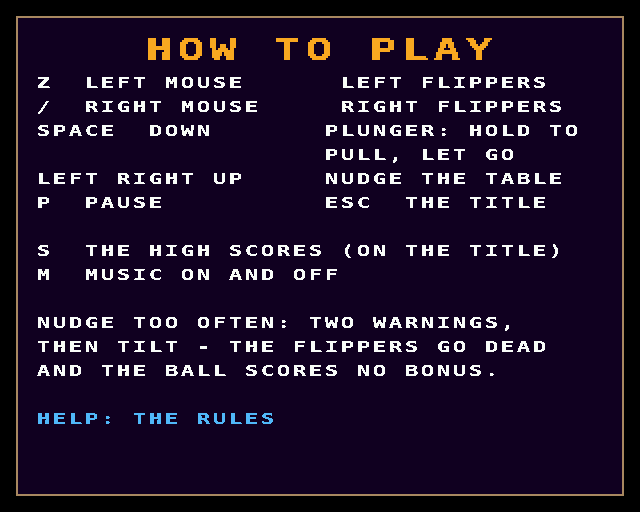
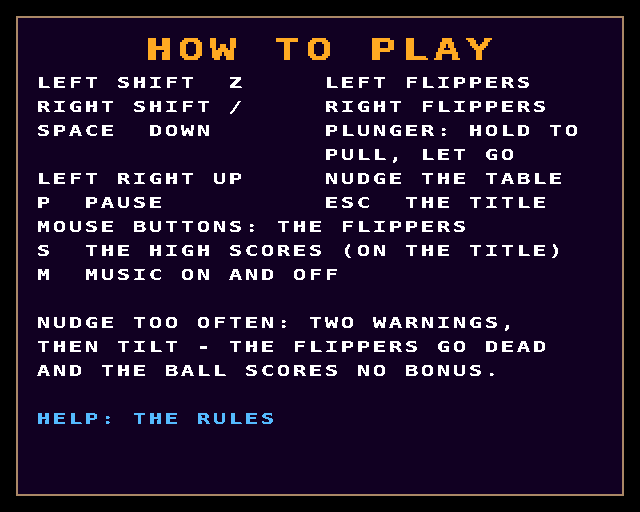
examples: Boing Pinball: help page aligned, m1b/m1c fps after MulShr (VM 88.9, JIT 77.7, native 225.5), guest tool for m1b/m1c only

diff --git a/examples/boing_pinball_bb/tools/guest.py b/examples/boing_pinball_bb/tools/guest.py
@@ -24,8 +24,8 @@ sys.path.insert(0, ROOT + "/examples/common/tools")
 import os4guest as g
 import guest_game as gg
 
-SHOTS_SSH = {"m1": "chriscollins@m1.local", "m1b": "chriscollins@m1.local"}
-HMP_PORT = {"m1": 2348, "m1b": 2448}.get(g.GUEST, 2348)
+SHOTS_SSH = {"m1b": "chriscollins@m1.local", "m1c": "chriscollins@m1.local"}
+HMP_PORT = {"m1b": 2448, "m1c": 2548}.get(g.GUEST, 2348)
 
 
 def push_project(m, bbp):

diff --git a/examples/boing_pinball_bb/README.md b/examples/boing_pinball_bb/README.md
@@ -15,7 +15,7 @@ On the AmigaOS 4 guest (QEMU sam460ex), in the interpreter:
 | ![The title: Comet Tour's backglass](screenshots/os4-title.png) | ![Comet Tour](screenshots/os4-comet.png) |
 | ![Deep Dive](screenshots/os4-deep.png) | ![Robot Foundry](screenshots/os4-foundry.png) |
 | ![Deep Dive's backglass](screenshots/os4-title_deep.png) | ![Robot Foundry's backglass](screenshots/os4-title_foundry.png) |
-| ![The controls](screenshots/os4-help1.png) | ![High scores](screenshots/os4-scores.png) |
+| ![The controls (the same pixels on the Mac)](screenshots/os4-help1.png) | ![High scores](screenshots/os4-scores.png) |
 
 | Table | |
 |---|---|
@@ -122,16 +122,19 @@ picture, so a frame stays at about 40 Canvas calls:
 
 The game in its window, the bot playing Comet Tour, `BoingPinball --bench 1500` (frames back to
 back, 20 ms of game time each: 2.4 physics steps a frame, 640 x 512 shown every frame), on the
-m1b guest (QEMU sam460ex on an unloaded Mac mini M1), 2026-11-08:
+agents' guests on m1.local (QEMU sam460ex on a Mac mini M1), 2026-11-08, after bb-core's typed
+`Int`/`Fix` and `MulShr`/`MulDiv` (the fixed-point helpers use them):
 
-| | fps | logic | draw | blit (ms per frame) |
-|---|---:|---:|---:|---:|
-| VM (`boing run`) | **84.5** | 4.89 | 4.80 | 1.77 |
-| VM + JIT (`boing run --jit`) | 76.2 | 5.74 | 5.31 | 1.72 |
-| native (`boing build --target os4`) | 217.3 | 0.43 | 2.47 | 1.61 |
+| | guest | fps | logic | draw | blit (ms per frame) |
+|---|---|---:|---:|---:|---:|
+| VM (`boing run`) | m1b | **88.9** | 4.38 | 4.78 | 1.69 |
+| VM | m1c (AmiForge running too) | 77.7 | 5.06 | 5.47 | 1.96 |
+| VM + JIT (`boing run --jit`) | m1c | 77.7 | 5.29 | 5.33 | 1.87 |
+| native (`boing build --target os4`) | m1c | 225.5 | 0.28 | 2.34 | 1.65 |
 
-With the music and the sound effects playing (AHI, `--bench 1500 --withsound`): VM 77.8 fps
-(logic 5.12, draw 5.39, blit 1.98).
+Earlier, on m1b with main of a few hours before: VM 84.5, JIT 76.2, native 217.3; the VM with
+the music and the sound effects playing (AHI, `--bench 1500 --withsound`) 77.8 fps (logic 5.12,
+draw 5.39, blit 1.98).
 
 All three give the same state hash (F9AFA545) and picture hash (2032836992) as the Mac, so the
 game is the same on PPC in every build. The game needs 50 fps; the interpreter has 70 % to
